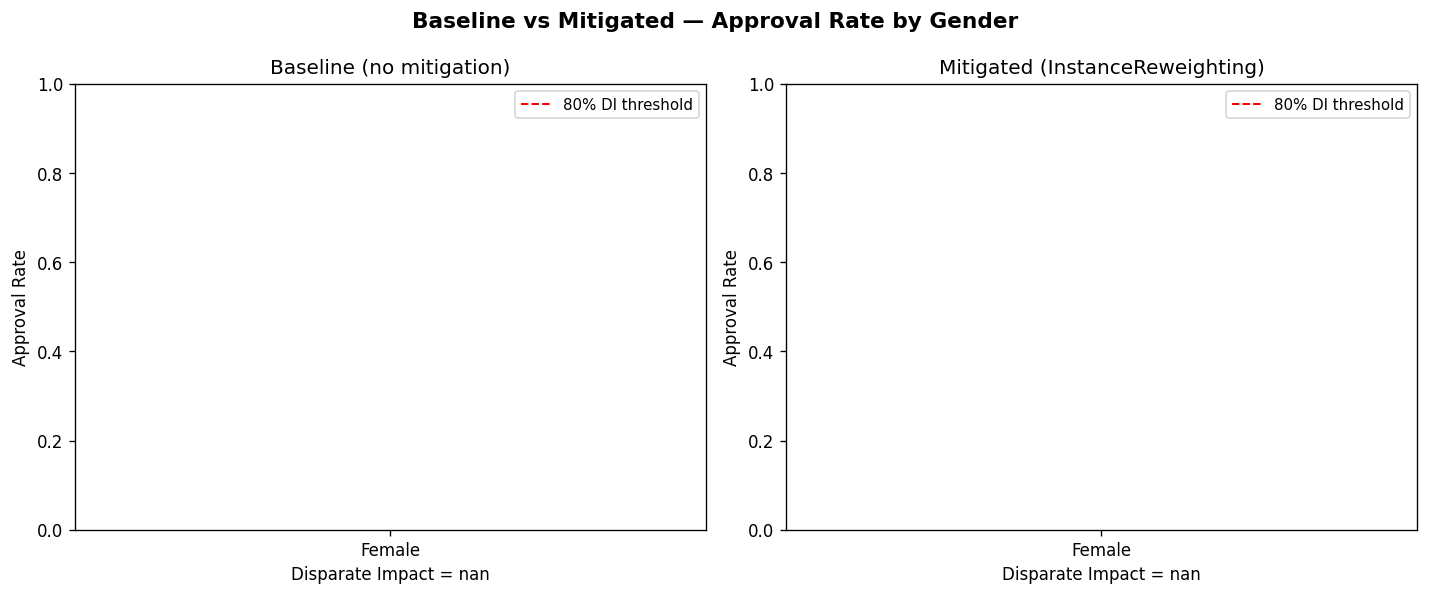
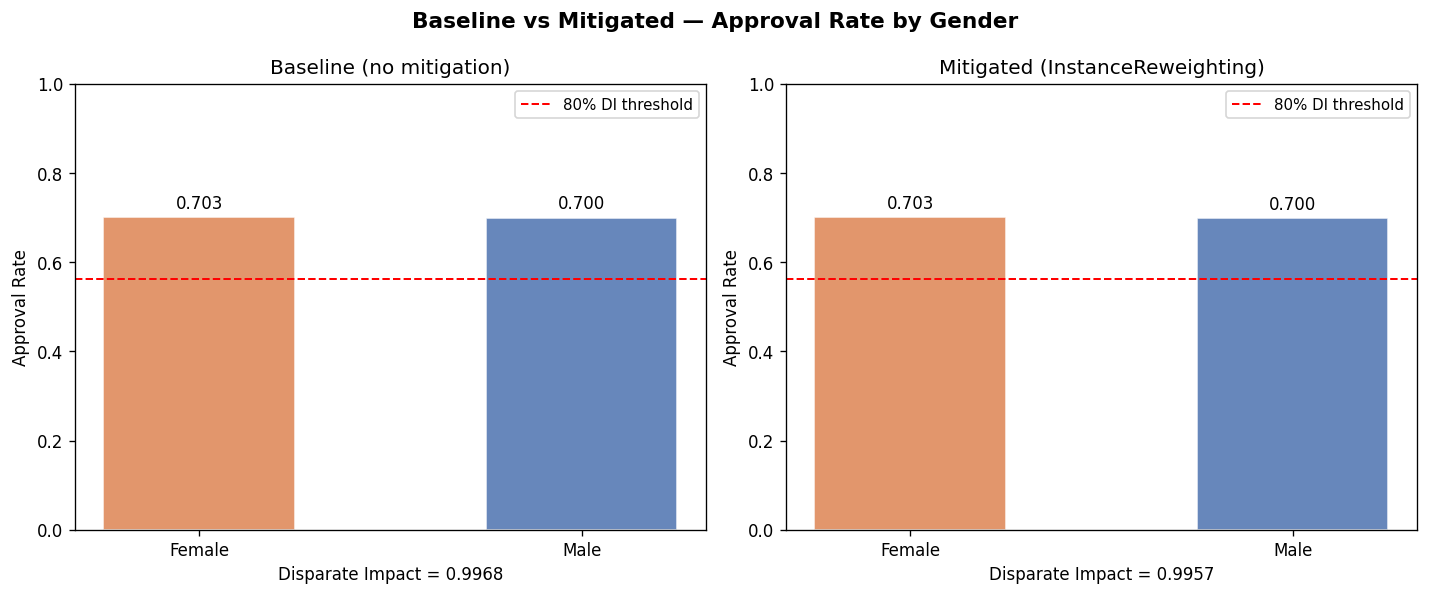
fiexd everything except last step

diff --git a/pipeline/pipeline_framework.py b/pipeline/pipeline_framework.py
@@ -55,6 +55,7 @@ from fair_transformers import (
     InstanceReweighting,
     SMOTEResampler,
 )
+from sklearn.base import BaseEstimator, TransformerMixin
 from sklearn.compose import ColumnTransformer
 from sklearn.preprocessing import OrdinalEncoder, StandardScaler
 from sklearn.pipeline import Pipeline as SKPipeline
@@ -70,6 +71,33 @@ def _build_preprocessor(df: pd.DataFrame):
         ],
         remainder='drop'
     )
+
+class DataFrameOrdinalEncoder(BaseEstimator, TransformerMixin):
+    """
+    OrdinalEncoder che accetta DataFrame, codifica solo le colonne
+    object/category e restituisce un DataFrame con gli stessi nomi.
+    I transformer successivi (DisparateImpactRemover, ecc.) possono
+    così continuare a referenziare le colonne per nome.
+    """
+    def __init__(self):
+        self._enc = OrdinalEncoder(
+            handle_unknown='use_encoded_value',
+            unknown_value=-1,
+        )
+        self._cat_cols: List[str] = []
+
+    def fit(self, X: pd.DataFrame, y=None):
+        self._cat_cols = X.select_dtypes(include=['object', 'category']).columns.tolist()
+        if self._cat_cols:
+            self._enc.fit(X[self._cat_cols])
+        return self
+
+    def transform(self, X: pd.DataFrame, y=None) -> pd.DataFrame:
+        if not self._cat_cols:
+            return X
+        X = X.copy()
+        X[self._cat_cols] = self._enc.transform(X[self._cat_cols])
+        return X
 
 # ---------------------------------------------------------------------------
 # Transformer registry  – maps config class names → Python classes
@@ -104,6 +132,7 @@ class FairPipelineResult:
     sample_weight: Optional[np.ndarray]
     feature_cols: List[str]
     config: Dict[str, Any] = field(default_factory=dict)
+    df_processed: Optional[pd.DataFrame] = None
 
 
 # ---------------------------------------------------------------------------
@@ -247,6 +276,9 @@ class FairPipelineBuilder:
         """
         steps: List[tuple] = []
 
+        if df is not None:
+            steps.append(("encoder", DataFrameOrdinalEncoder()))
+
         for t_cfg in self.config.get("transformers", []):
             if not t_cfg.get("enabled", True):
                 continue
@@ -328,18 +360,6 @@ class FairPipelineBuilder:
         X = df_processed[feature_cols + sensitive_cols]   # keep sensitive for transformers
         y = df_processed[target_col]
 
-        cat_cols = X.select_dtypes(include=["object", "category"]).columns.tolist()
-        if cat_cols:
-            from sklearn.preprocessing import OrdinalEncoder
-            enc = OrdinalEncoder(
-                handle_unknown="use_encoded_value",
-                unknown_value=-1,
-            )
-            X = X.copy()
-            X[cat_cols] = enc.fit_transform(X[cat_cols])
-            self._categorical_encoder = enc          # salvato per predict
-            self._encoded_cat_cols    = cat_cols
-
         # 5. Fit — pass sample_weight if InstanceReweighting was used
         fit_params = {}
         if self._sample_weight is not None:
@@ -354,6 +374,7 @@ class FairPipelineBuilder:
             sample_weight=self._sample_weight,
             feature_cols=feature_cols,
             config=self.config,
+            df_processed=df_processed,
         )
 
     # ------------------------------------------------------------------
